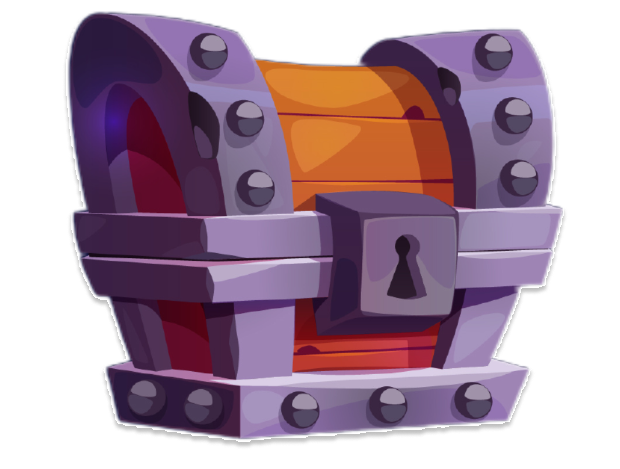
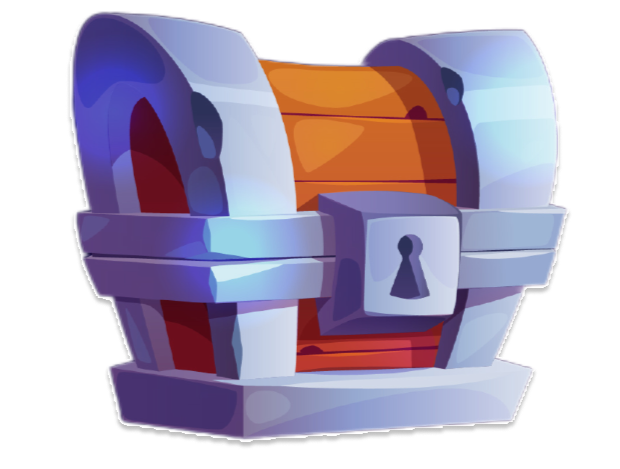
finished progress bar and renamed chests

diff --git a/components/ProgressBar/ProgressBar.tsx b/components/ProgressBar/ProgressBar.tsx
@@ -1,12 +1,15 @@
 import React from "react";
-import { View } from "react-native";
+import { Image, View } from "react-native";
 import { styles } from "./ProgressBar.styles";
+import { SubHeading } from "../Text/TextComponents";
+import colors from "@/constants/colors";
 
 interface ProgressBarProps {
   progress: number; // Progress as a percentage (0-100)
   height?: number; // Optional height for customization
   backgroundColor?: string; // Optional background color
   progressColor?: string; // Optional progress color
+  imageSrc?: any;
 }
 
 function ProgressBar(props: ProgressBarProps) {
@@ -15,6 +18,7 @@ function ProgressBar(props: ProgressBarProps) {
     height = 30,
     backgroundColor = "#38B38E",
     progressColor = "#AFE3EF",
+    imageSrc,
   } = props;
 
   return (
@@ -28,6 +32,19 @@ function ProgressBar(props: ProgressBarProps) {
               backgroundColor: progressColor,
             },
           ]}
+        />
+      </View>
+      <View style={styles.textContainer}>
+        <SubHeading color={colors.PrimaryGrayDropShadow}>
+          0 energy today
+        </SubHeading>
+        <SubHeading color={colors.PrimaryGrayDropShadow}>Goal: 20</SubHeading>
+      </View>
+      <View style={styles.circleResult}>
+        <Image
+          source={imageSrc}
+          style={styles.circleImage}
+          resizeMode="contain"
         />
       </View>
     </View>

diff --git a/app/(authed)/(tabs)/(home)/HomeScreen.tsx b/app/(authed)/(tabs)/(home)/HomeScreen.tsx
@@ -18,7 +18,8 @@ import Goal from "./assets/Goal.png";
 import ShardGem from "./assets/ShardGem.png";
 import Star from "./assets/Star.png";
 import XPGem from "./assets/XPGem.png";
-import NormalChest from "../../../../assets/images/chests/NormalChest.png";
+import CommonChest from "../../../../assets/images/chests/CommonChest.png";
+import RareChest from "../../../../assets/images/chests/RareChest.png";
 import UncommonChest from "../../../../assets/images/chests/UncommonChest.png";
 import { StatText, SubHeading, Title } from "@/components/Text/TextComponents";
 import SquareActionButton from "@/components/Buttons/SquareActionButtons/SquareActionButtons";
@@ -125,7 +126,7 @@ export default function HomeScreen() {
           >
             <View style={styles.chest}>
               <Image
-                source={NormalChest}
+                source={CommonChest}
                 style={styles.chestImage}
                 resizeMode="contain"
               />
@@ -159,6 +160,7 @@ export default function HomeScreen() {
           progress={40}
           backgroundColor={colors.PrimaryWhite}
           progressColor={colors.PrimaryPurpleBackground}
+          imageSrc={RareChest}
         />
       </View>
     </View>

diff --git a/components/ProgressBar/ProgressBar.styles.ts b/components/ProgressBar/ProgressBar.styles.ts
@@ -18,6 +18,34 @@ export const styles = StyleSheet.create({
     borderRadius: 22, // Slightly larger than the inner container's radius
     borderWidth: 5,
     borderColor: colors.DarkPrimaryText,
-    position: relative,
+    position: "relative",
+  },
+  circleResult: {
+    position: "absolute",
+    right: -5,
+    width: 50,
+    height: 50,
+    borderRadius: 100,
+    backgroundColor: colors.DarkPurpleBackground,
+    borderColor: colors.DarkPrimaryText,
+    borderWidth: 3,
+    justifyContent: "center",
+    alignItems: "center",
+    top: "50%", // Align vertically
+    transform: [{ translateY: -25 }], // Adjust for half the height of the circle
+  },
+  circleImage: {
+    width: "85%",
+    height: "85%",
+  },
+  textContainer: {
+    width: "100%",
+    flexDirection: "row",
+    justifyContent: "space-between",
+    alignItems: "center",
+    position: "absolute",
+    bottom: -27,
+    paddingRight: 50,
+    paddingLeft: 5,
   },
 });
